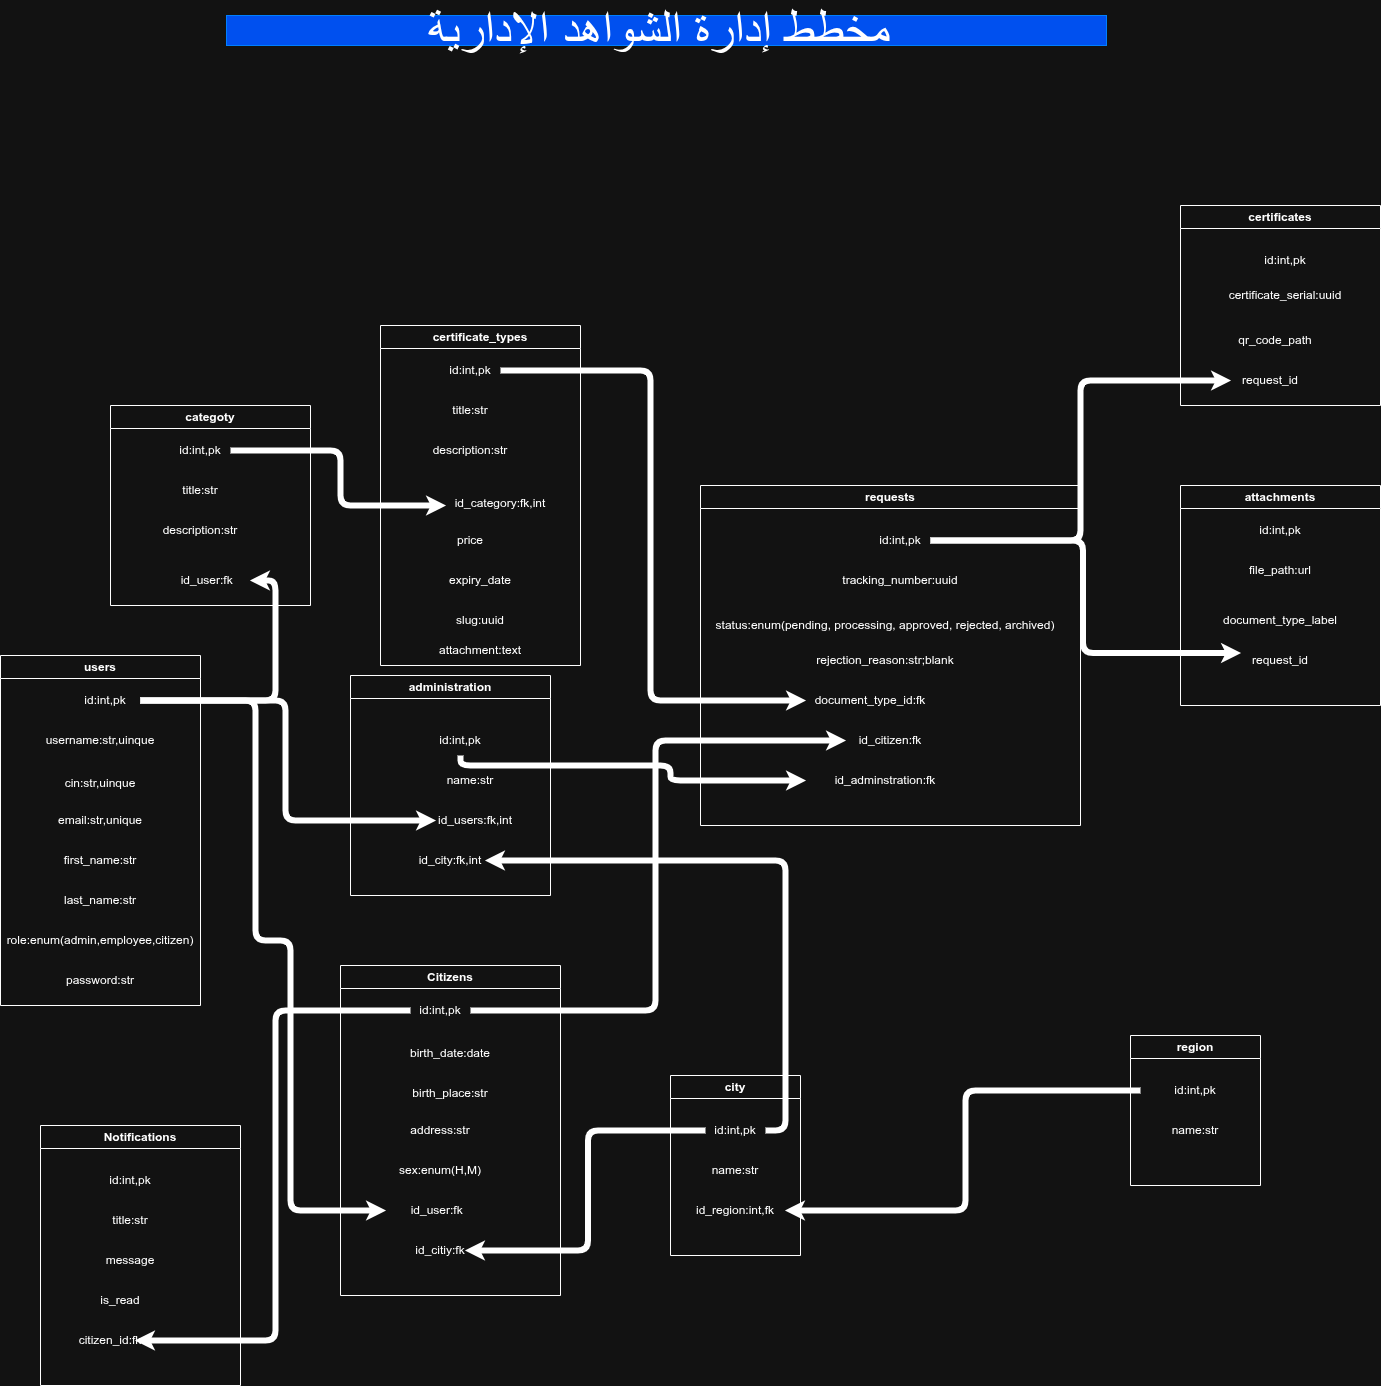
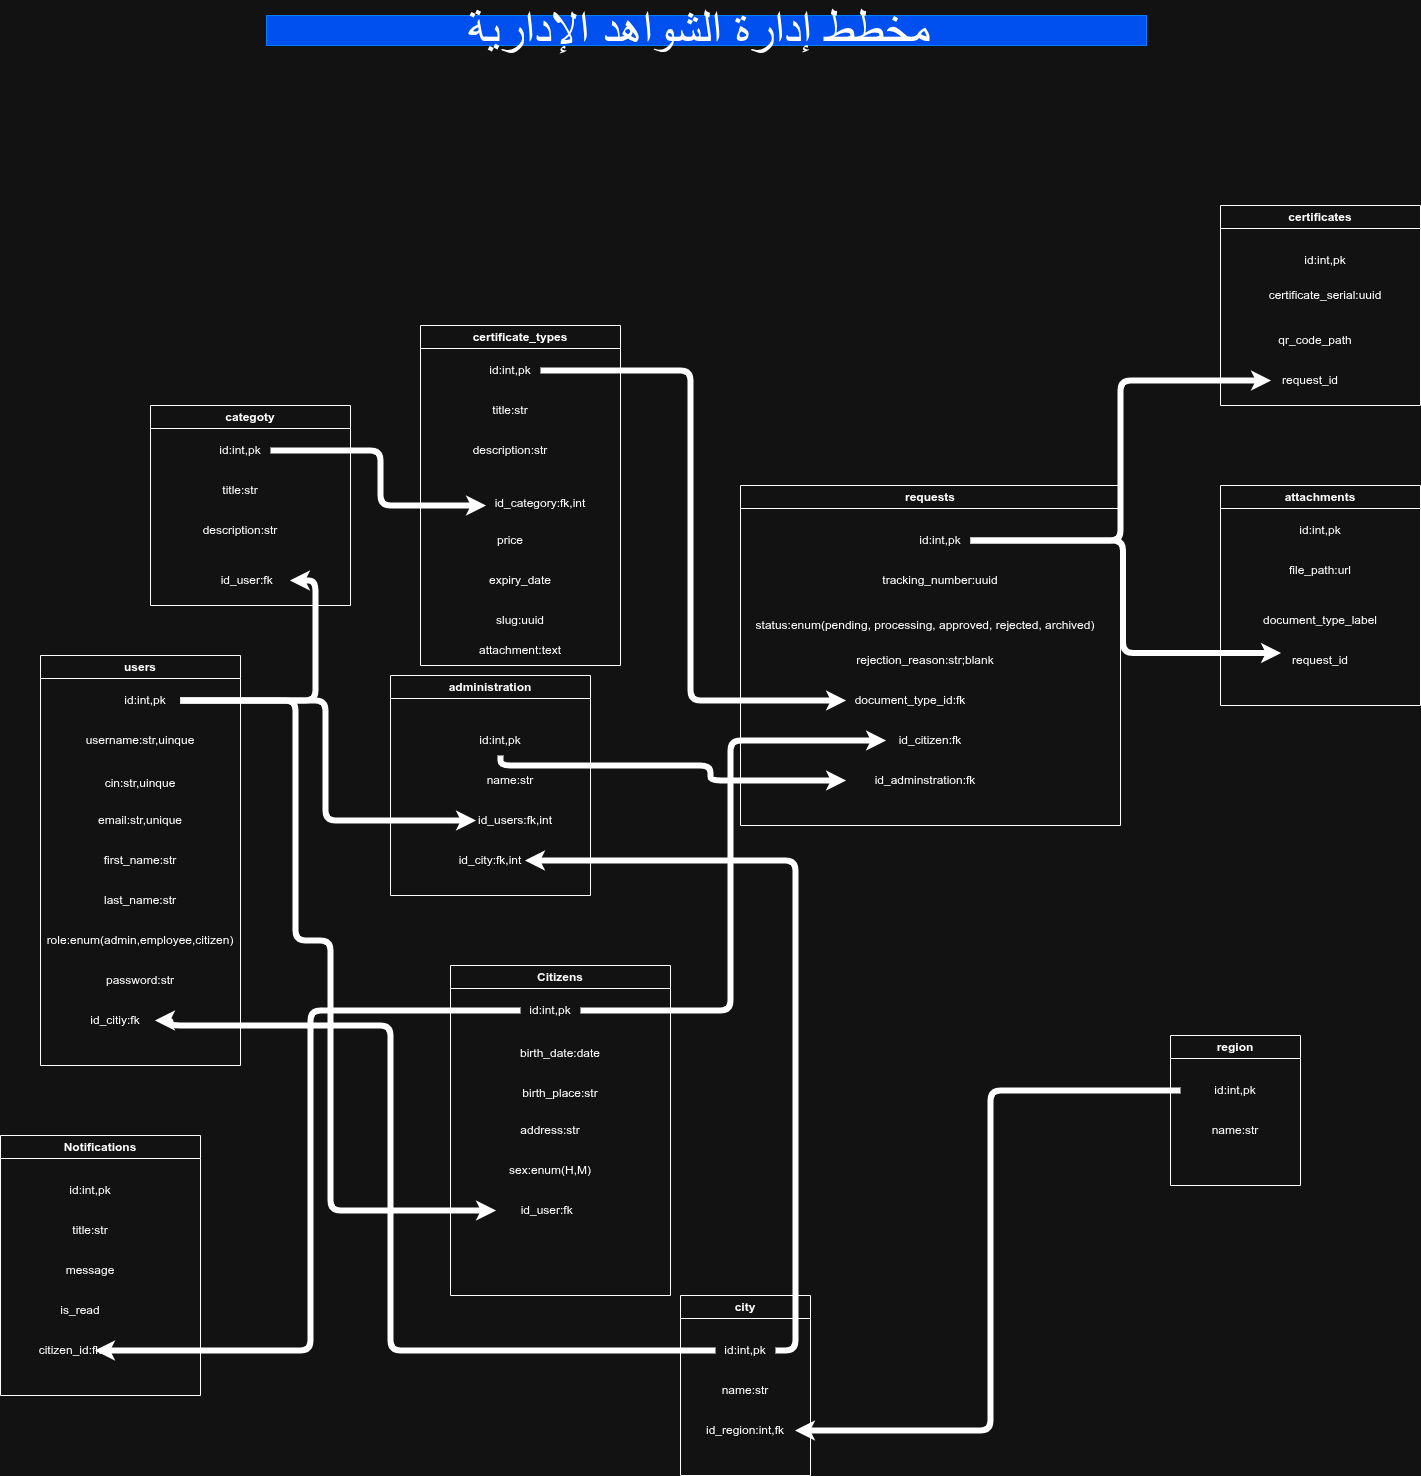
commit-update

diff --git a/server/database/migrations/0001_01_01_000000_create_users_table.php b/server/database/migrations/0001_01_01_000000_create_users_table.php
@@ -13,10 +13,16 @@ return new class extends Migration
     {
         Schema::create('users', function (Blueprint $table) {
             $table->id();
-            $table->string('name');
+            $table->foreignId("city_id")->constrained()->onDelete("cascade");
+            $table->string('username')->uinque();
+            $table->string("cin")->uinque();
             $table->string('email')->unique();
-            $table->timestamp('email_verified_at')->nullable();
+            $table->string("first_name");
+            $table->string("last_name");
+            $table->enum("role",["admin","employee","citizen"])->default("citizen");
+            $table->enum("status", ["active", "inactive", "suspended", "pending"])->default("active");
             $table->string('password');
+            $table->timestamp('email_verified_at')->nullable();
             $table->rememberToken();
             $table->timestamps();
         });

diff --git a/server/database/migrations/2026_05_09_223532_create_cities_table.php b/server/database/migrations/2026_05_09_223532_create_cities_table.php
@@ -13,6 +13,8 @@ return new class extends Migration
     {
         Schema::create('cities', function (Blueprint $table) {
             $table->id();
+            $table->string("title");
+            $table->foreignId("region_id")->constrained()->onDelete("cascade");
             $table->timestamps();
         });
     }